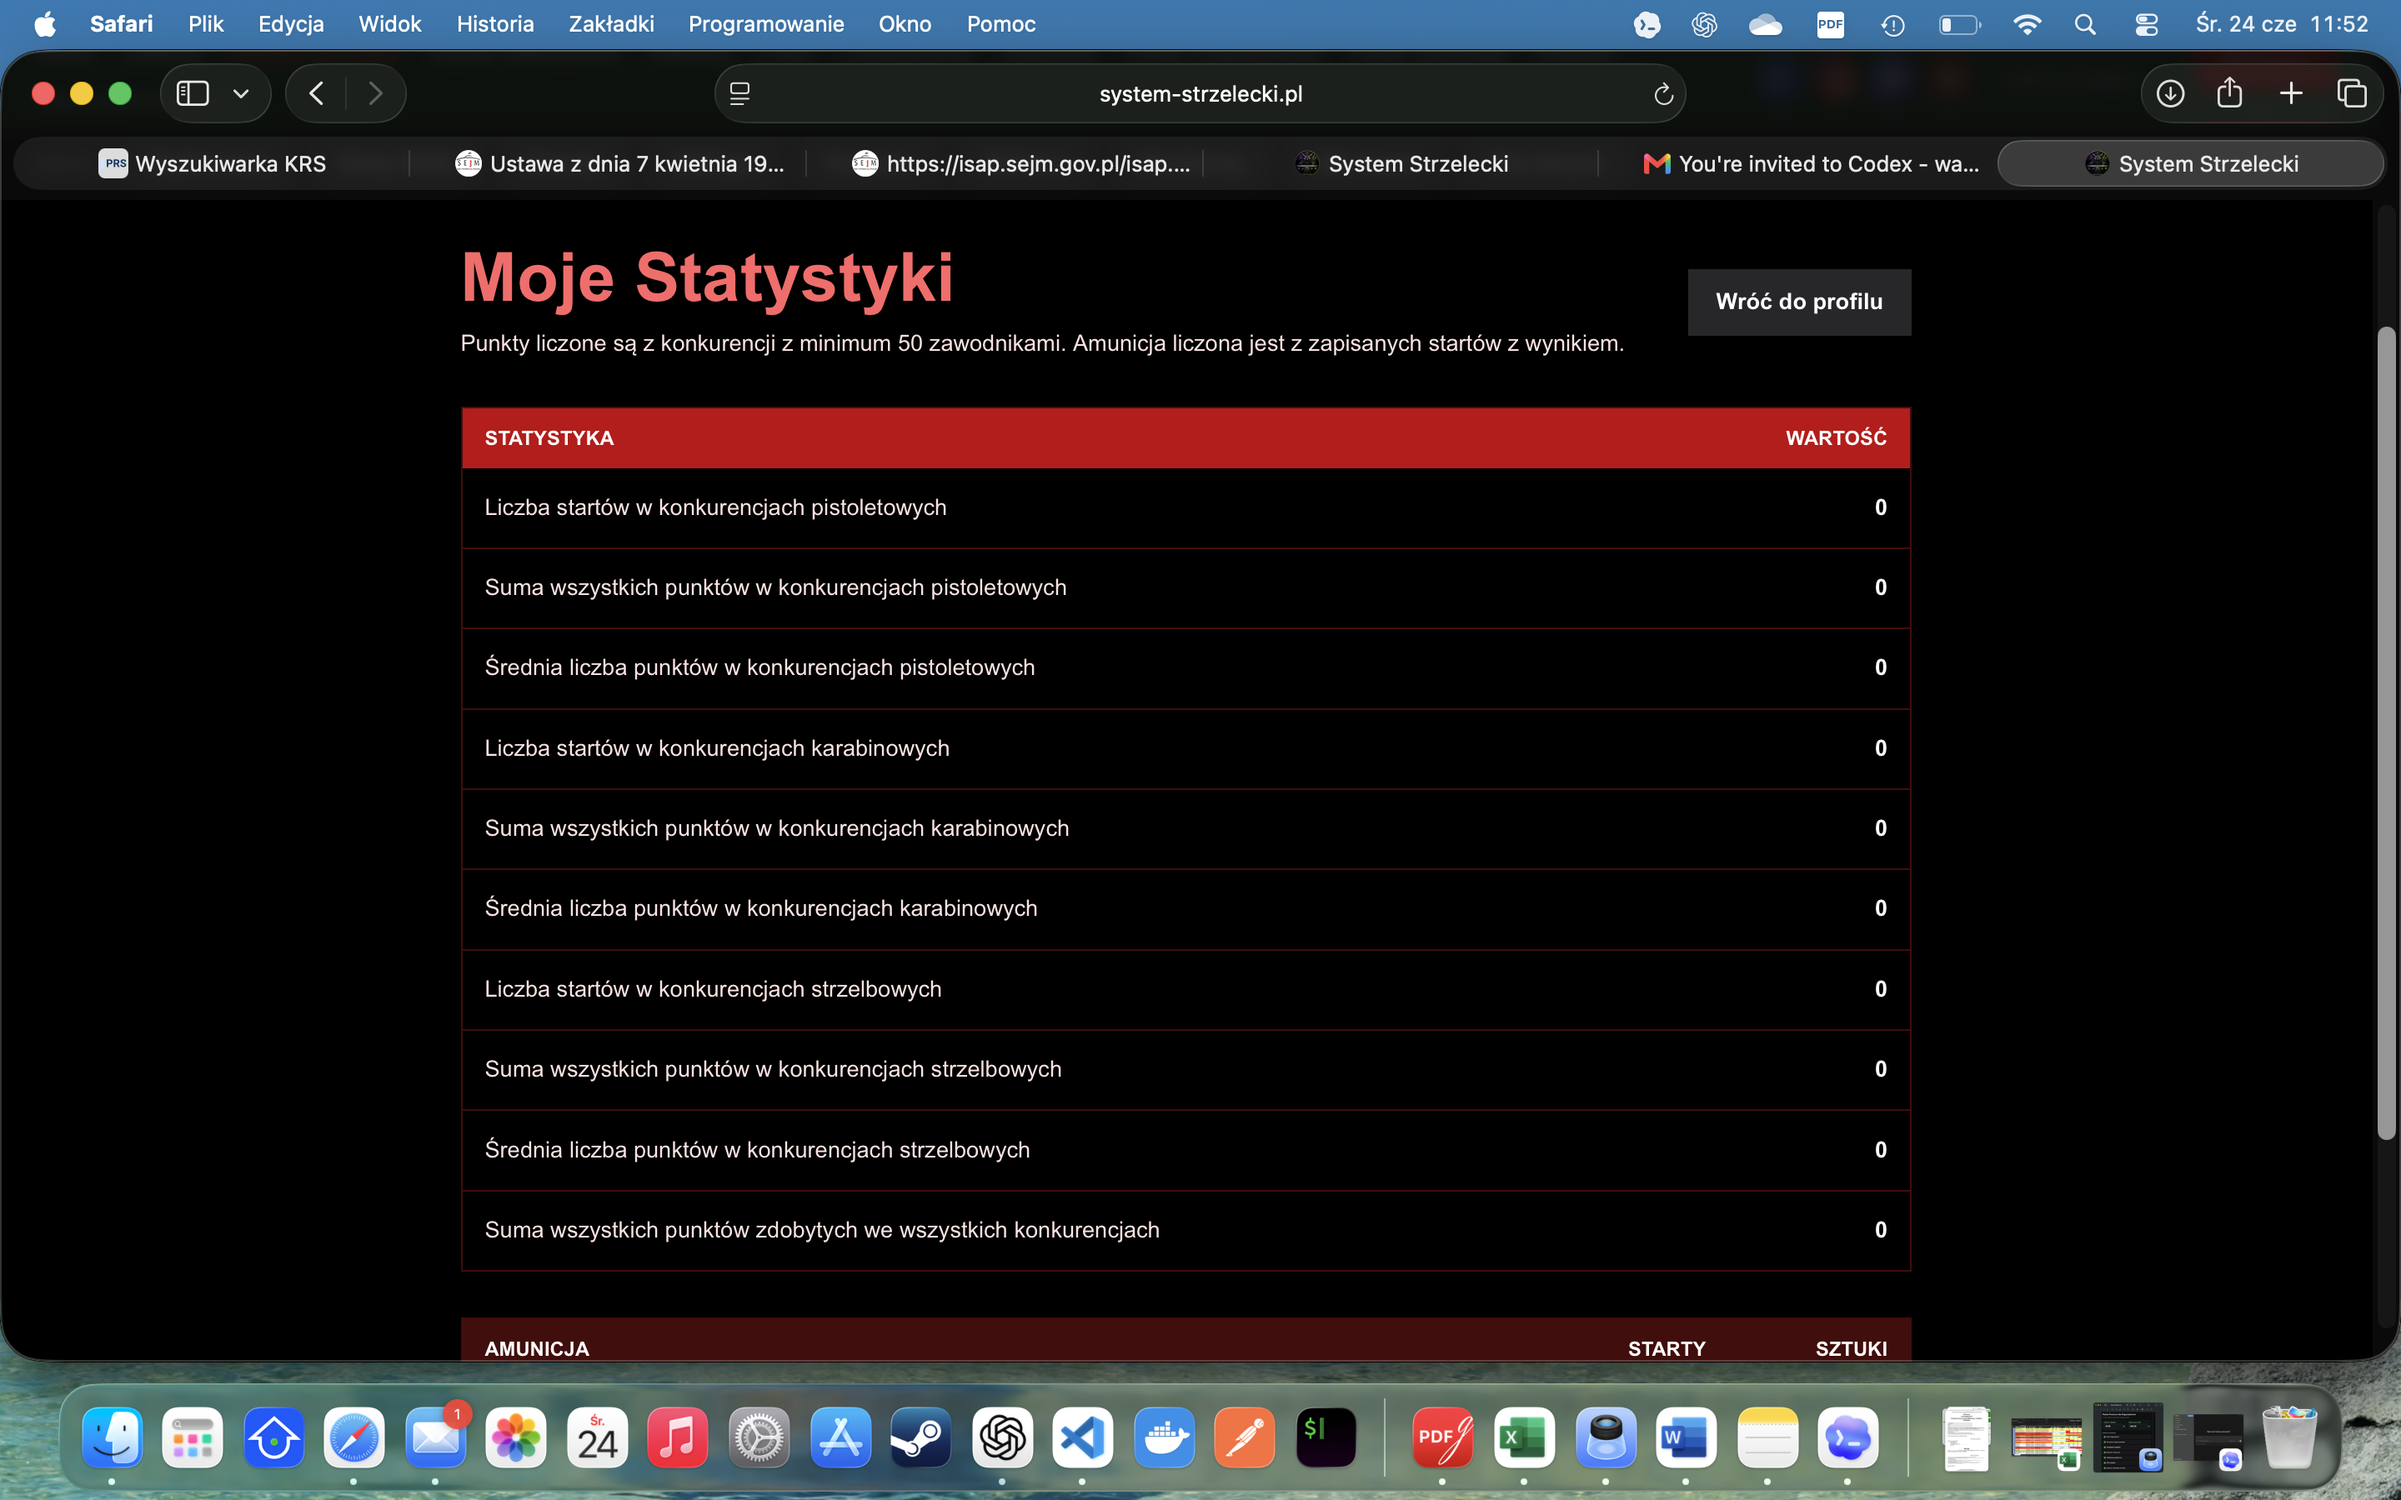
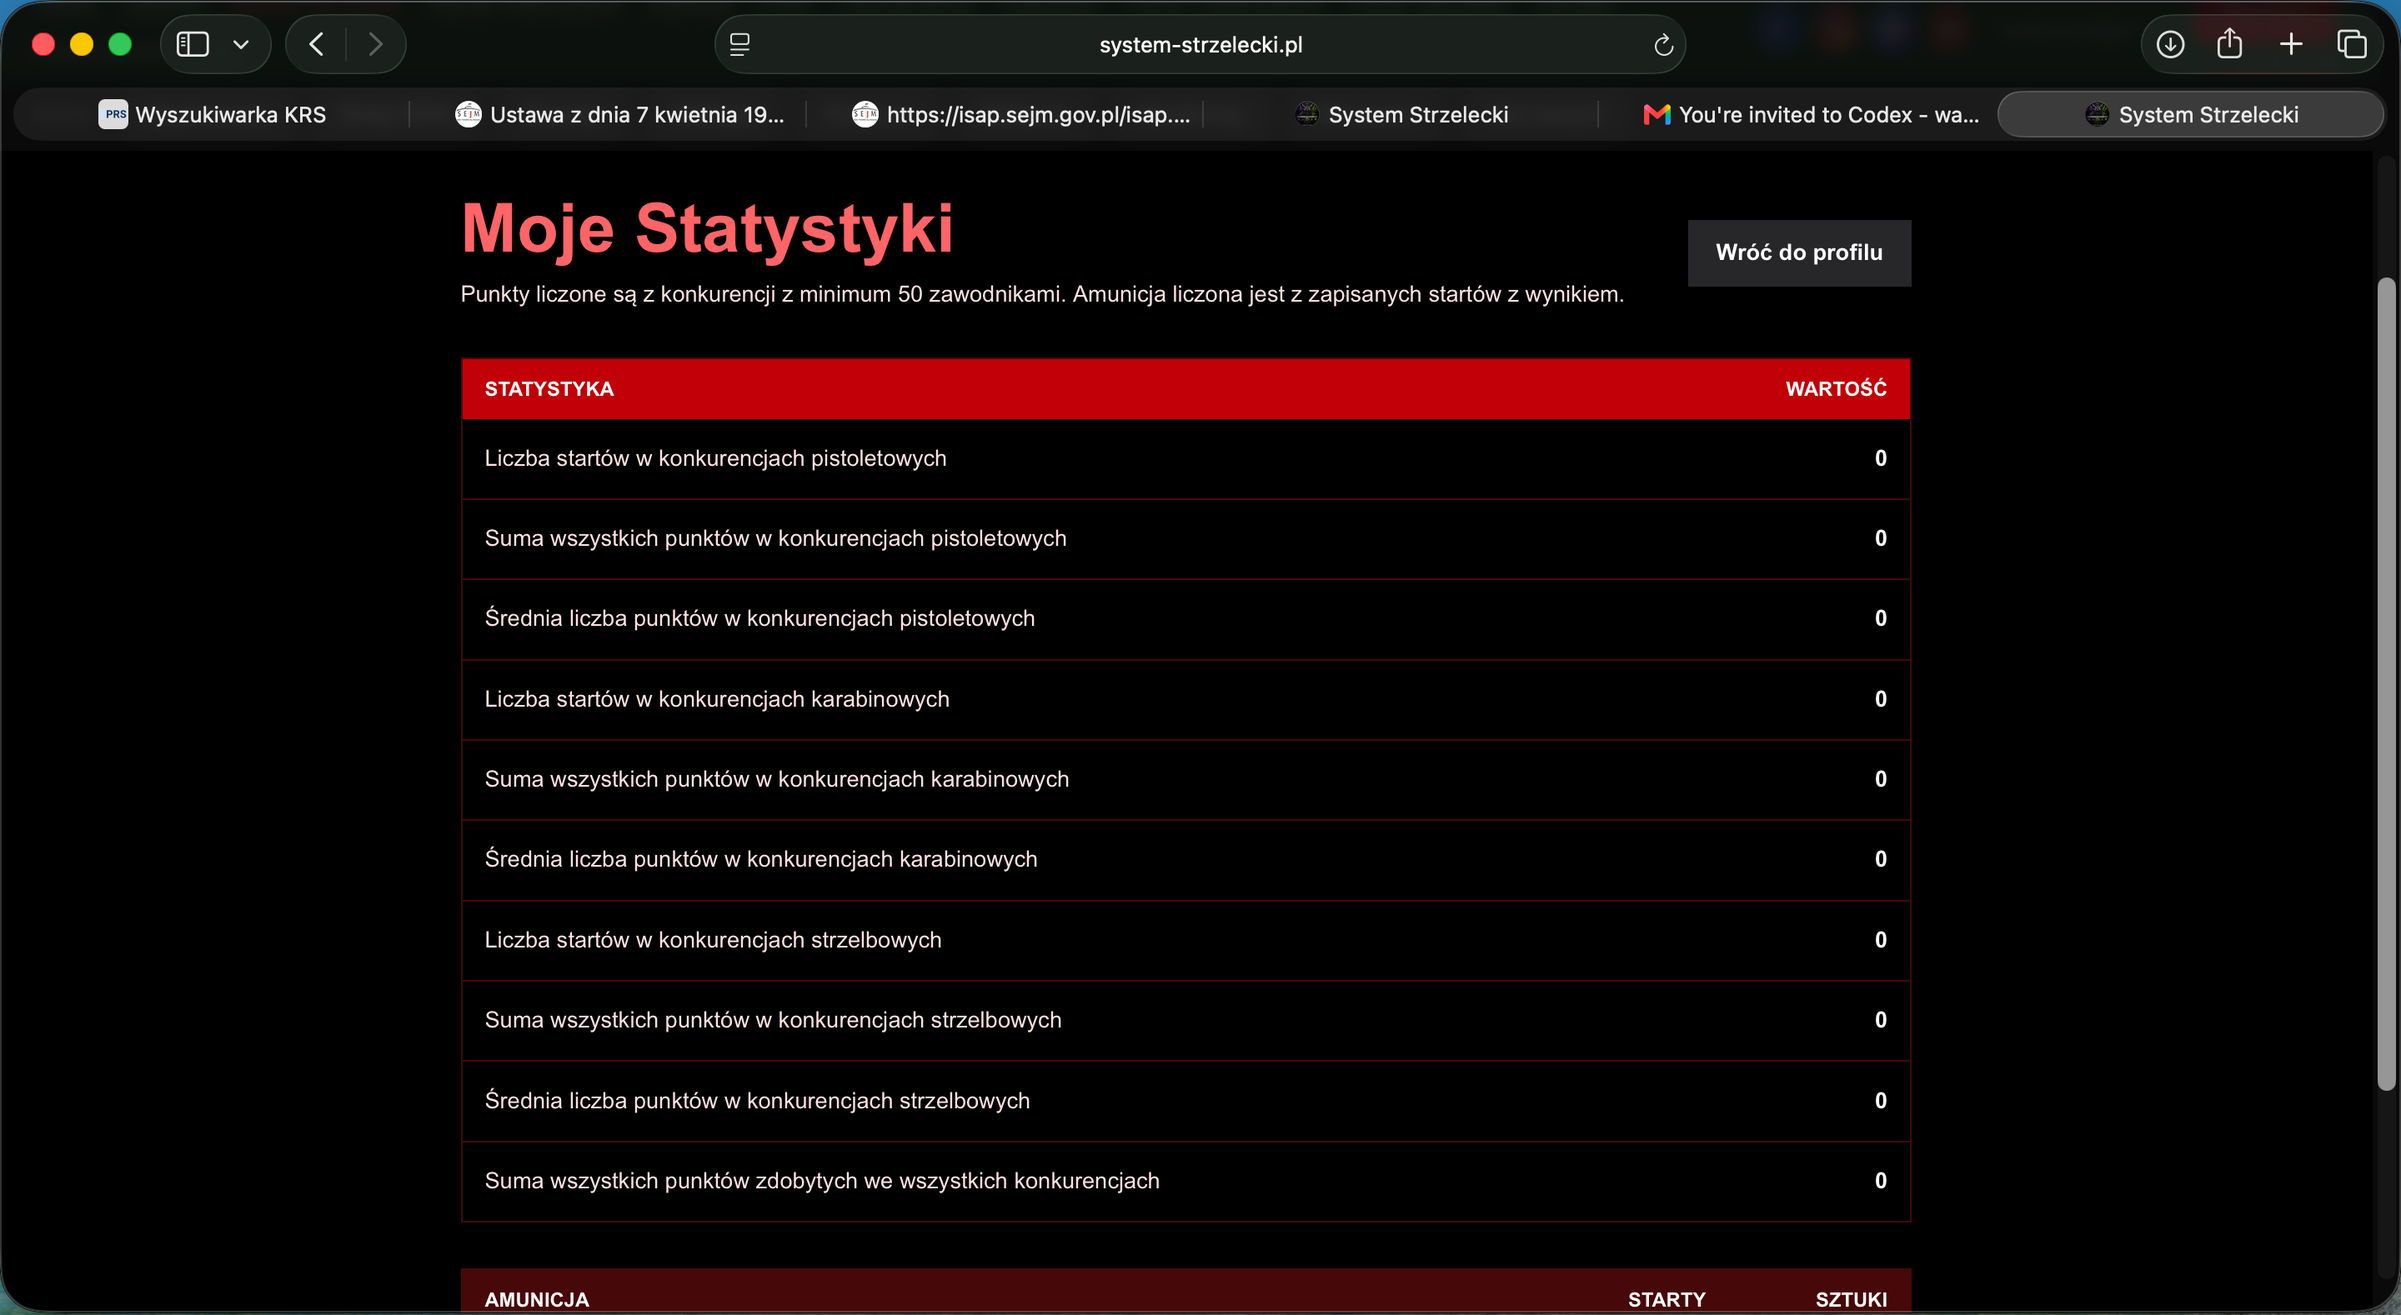
Crop homepage screenshots to browser window

Changed region(s): [[0.0, 0.1553, 1.0, 1.0], [0.0, 0.0, 1.0, 0.1242], [0.9688, 0.7452, 1.0, 0.8384]]

diff --git a/frontend/app/page.tsx b/frontend/app/page.tsx
@@ -132,7 +132,7 @@ function FeatureScreen({ kind }: { kind: FeatureKind }) {
           src={screen.src}
           alt={screen.alt}
           width={2880}
-          height={1800}
+          height={1578}
           sizes="(min-width: 1024px) 650px, 100vw"
           className="h-auto w-full"
         />
